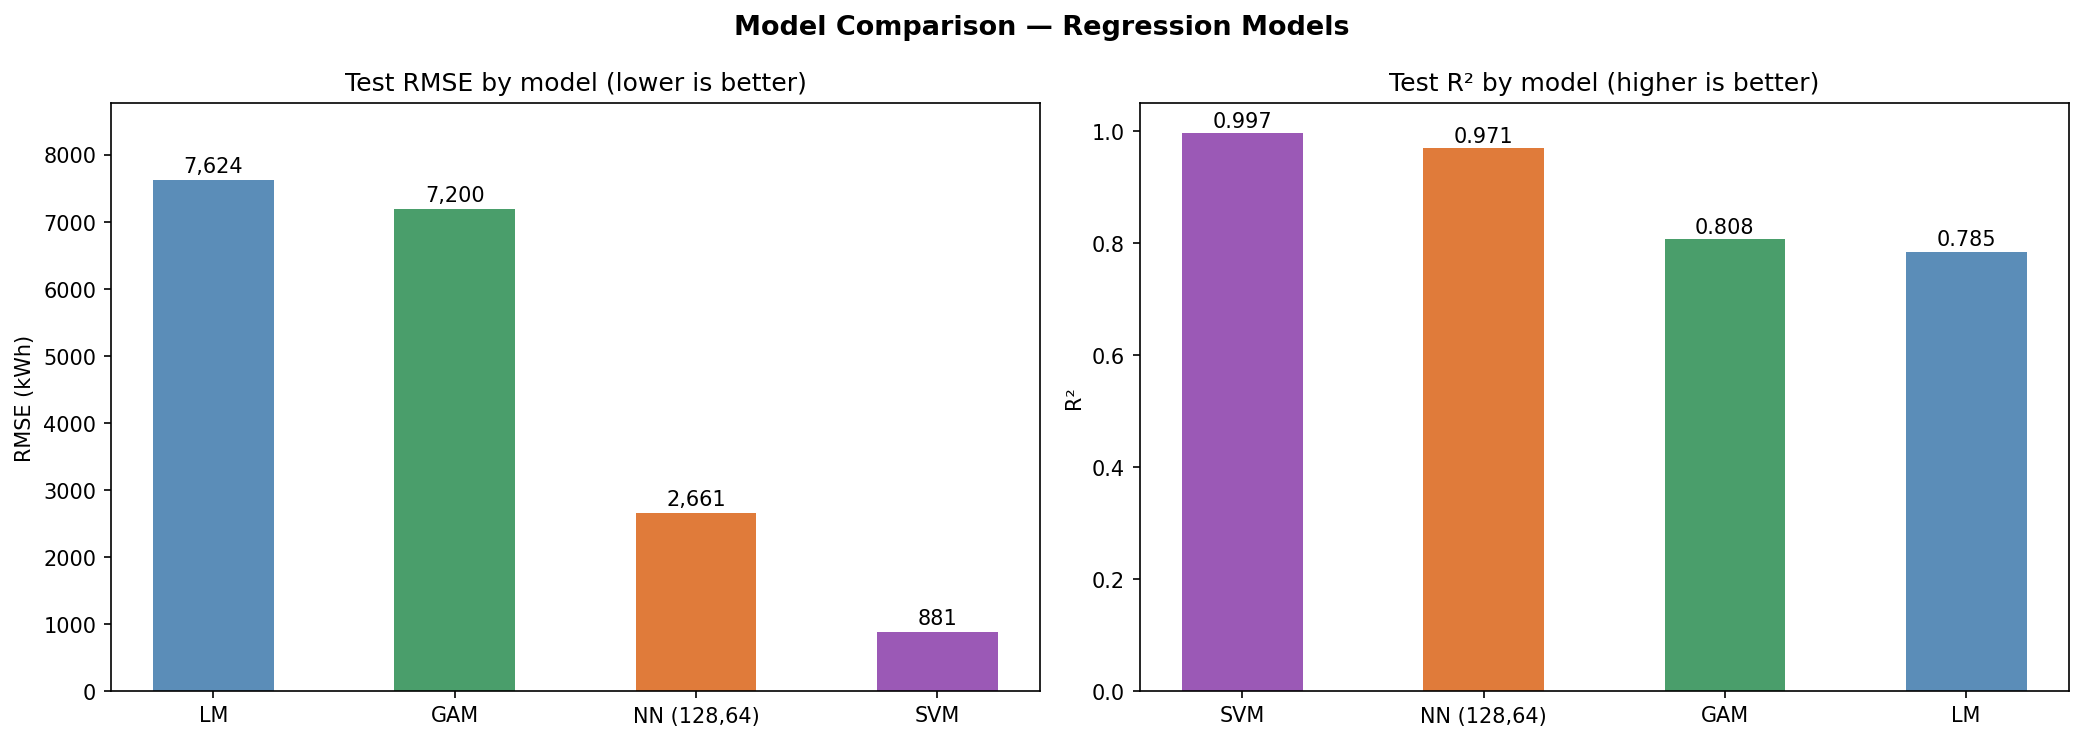
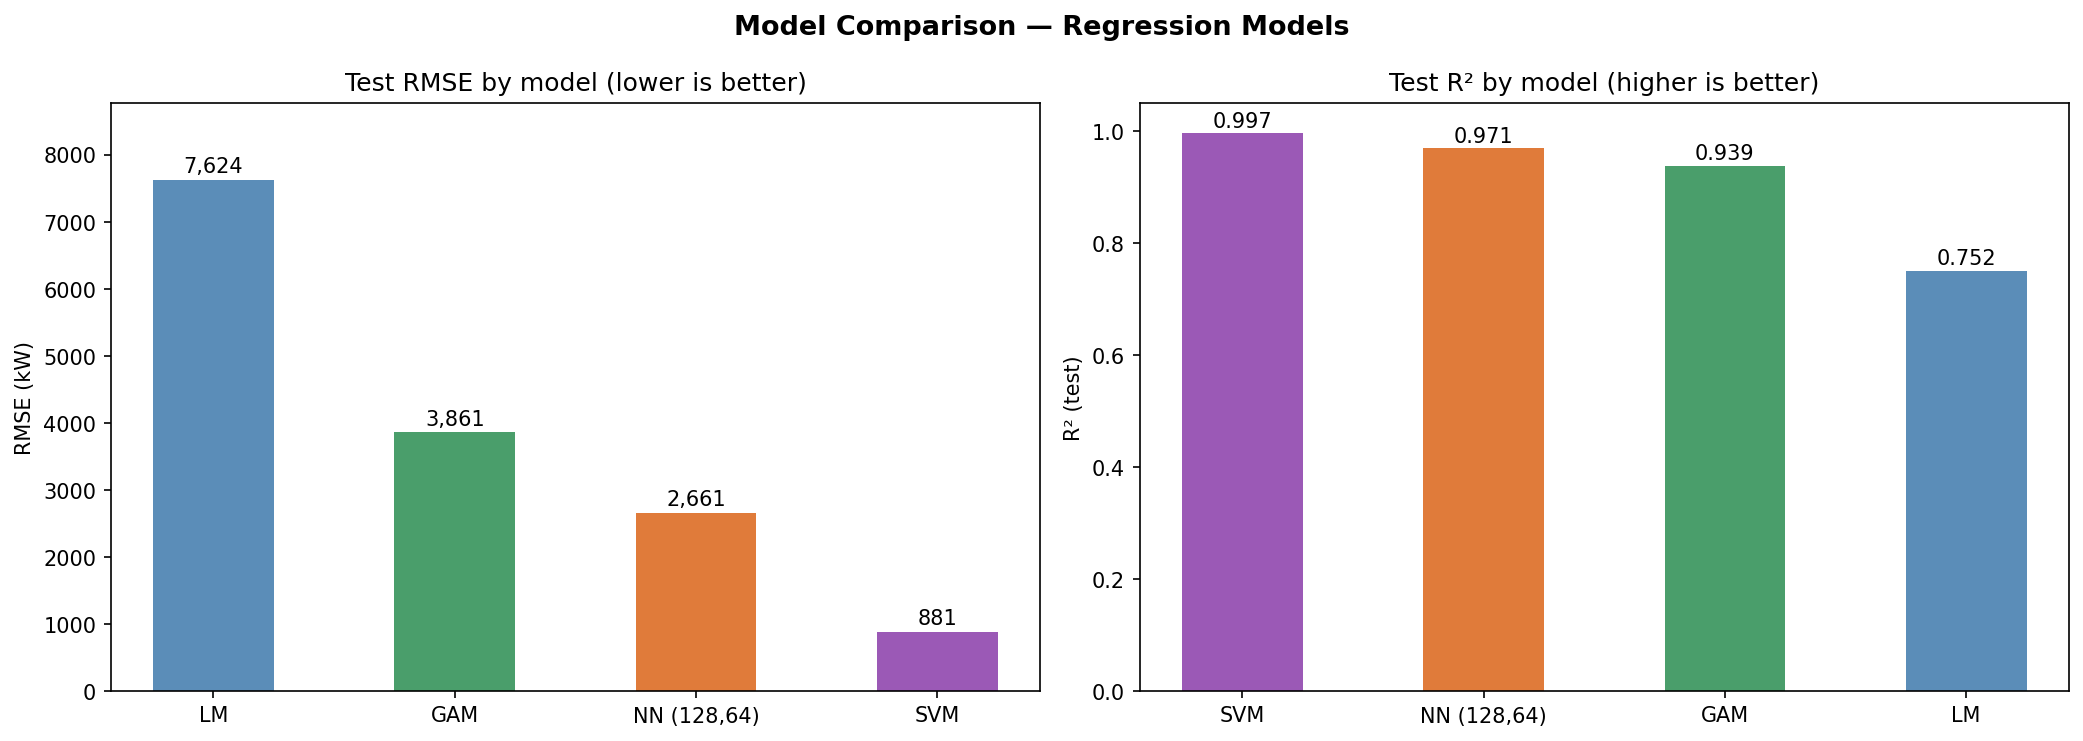
fix: r2_train/r2_test bug in NN and SVM, fix SVM CSV deletion, update conclusions plot

diff --git a/README.md b/README.md
@@ -35,7 +35,7 @@ Both datasets are open data from the City of Zurich.
 |---|---|
 | Tamara Marcet | Linear Model (02), GLM Poisson (03), Conclusions (09), Report, Submission | 
 | Paula Barghout | Preprocessing (00), EDA (01), GLM Binomial (04), GAM (05), Cross-validation (08), Conclusions (09), Report |
-| Elena Fuchs | SVM (06), Neural Network (07), Conclusions (09), Report (Focus Storytelling, Client-Focus & Aesthetics), Final Project Walkthrough |
+| Elena Fuchs | SVM (06), Neural Network (07), Conclusions (09), Report (Focus: Visual Design) |
 
 ---
 
